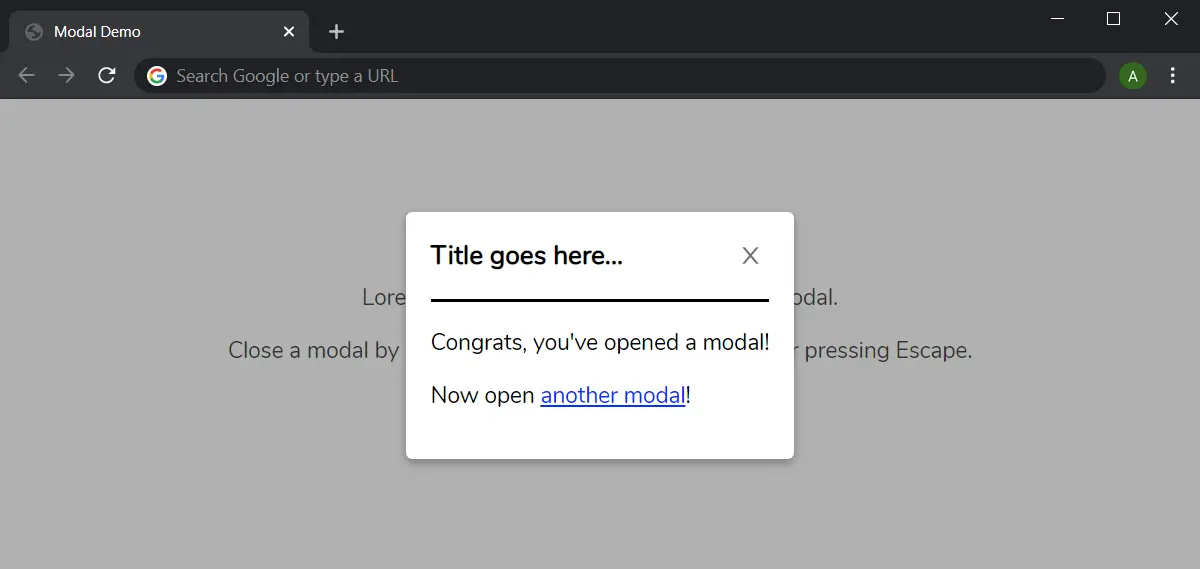
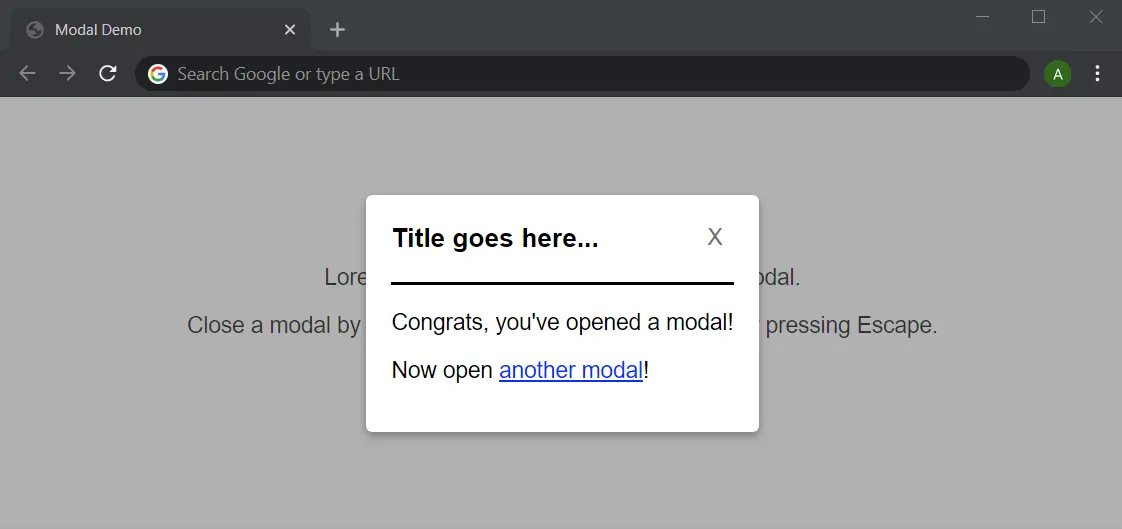
Update modal article; fix OG image placeholders

Changed region(s): [[0.0, 0.0, 1.0, 0.1815], [0.156, 0.3629, 0.8422, 0.8469]]

diff --git a/_posts/dev/2019-12-29-multiple-modals-on-one-page-using-html-css-and-javascript.md b/_posts/dev/2019-12-29-multiple-modals-on-one-page-using-html-css-and-javascript.md
@@ -24,7 +24,6 @@ Here's some basic markup to get us started:
     <meta charset="UTF-8">
     <meta name="viewport" content="width=device-width, initial-scale=1.0">
     <link rel="stylesheet" type="text/css" href="style.css" />
-    <link href="https://fonts.googleapis.com/css?family=Nunito&display=swap" rel="stylesheet">
     <title>Modal Demo</title>
 </head>
 <body>
@@ -55,7 +54,7 @@ body {
     align-items: center;
     display: flex;
     flex-direction: column;
-    font-family: Nunito, Arial;
+    font-family: Arial;
     font-size: 1.8rem;
     height: 100vh;
     justify-content: center;
@@ -222,7 +221,7 @@ Finally, we'll style the triggers:
 
 And we're done! You can temporarily set `modal1` to be visible by manually adding `modal-visible` to its class list. Here's what the modal should look like:
 
-{% include posts/picture.html img="modal" ext="JPG" alt="One of the modals we created, with its slightly opaque background." shadow=false %}
+{% include posts/picture.html img="modal" ext="PNG" alt="One of the modals we created, with its slightly opaque background." shadow=false %}
 
 {% include linkedHeading.html heading="Adding the JavaScript" level=2 %}
 
